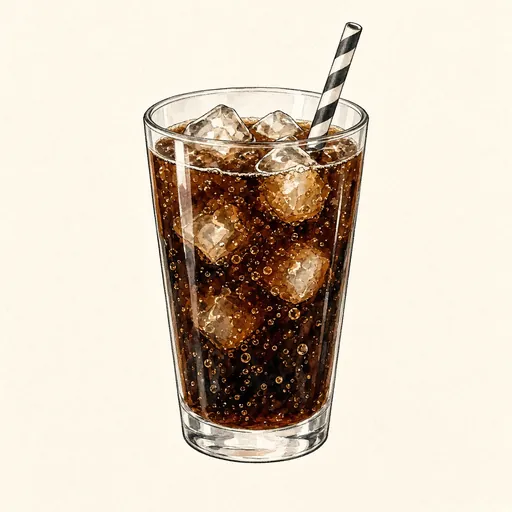
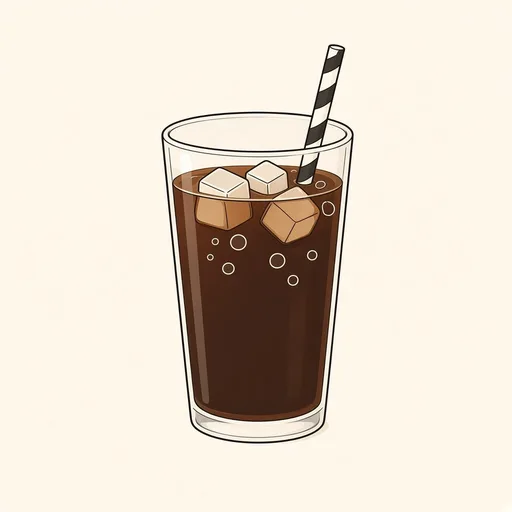
chinese-class-web: milk-tea shop (3002) pictures redrawn — 可乐 啤酒 珍珠 糖 外带 + scene l3-p2 (same filenames); art cache v5

Changed region(s): [[0.2812, 0.0312, 0.7188, 0.9062]]

diff --git a/chinese-class-web/index.html b/chinese-class-web/index.html
@@ -2,19 +2,19 @@
 <html lang="th">
 <head>
 <meta charset="utf-8">
-<script src="sync-config.js?v=044b5b8979" defer></script><script src="sync-merge.js?v=044b5b8979" defer></script><script src="sync-supabase.js?v=044b5b8979" defer></script><script src="sync.js?v=044b5b8979" defer></script>
+<script src="sync-config.js?v=3359cf7e49" defer></script><script src="sync-merge.js?v=3359cf7e49" defer></script><script src="sync-supabase.js?v=3359cf7e49" defer></script><script src="sync.js?v=3359cf7e49" defer></script>
 <meta name="viewport" content="width=device-width, initial-scale=1, maximum-scale=1, user-scalable=no, viewport-fit=cover">
-<script src="nozoom.js?v=044b5b8979"></script>
+<script src="nozoom.js?v=3359cf7e49"></script>
 <meta name="theme-color" content="#FAF7F2">
 <!--brand:start--><title>เหล่าซือลามา — ตัวอย่างทดลอง</title>
 <meta name="description" content="ตัวอย่างทดลองเว็บเรียนภาษาจีนสำหรับคนไทย เหล่าซือลามา เรียนสนุกผ่านเรื่องราว เกม และเพื่อนใน LINE (ยังไม่ใช่ระบบจริง)"><link rel="canonical" href="https://songyisong88.github.io/teepuan-games/chinese-class-web/">
 <meta property="og:type" content="website"><meta property="og:site_name" content="เหล่าซือลามา"><meta property="og:locale" content="th_TH"><meta property="og:title" content="เหล่าซือลามา — ตัวอย่างทดลอง"><meta property="og:description" content="ตัวอย่างทดลองเว็บเรียนภาษาจีนสำหรับคนไทย เหล่าซือลามา เรียนสนุกผ่านเรื่องราว เกม และเพื่อนใน LINE (ยังไม่ใช่ระบบจริง)"><meta property="og:url" content="https://songyisong88.github.io/teepuan-games/chinese-class-web/"><meta property="og:image" content="https://songyisong88.github.io/teepuan-games/chinese-class-web/assets/og.jpg"><meta property="og:image:width" content="1200"><meta property="og:image:height" content="630"><meta property="og:image:alt" content="เหล่าซือลามา — ลามะอาจารย์สอนภาษาจีน">
 <meta name="twitter:card" content="summary_large_image"><meta name="twitter:title" content="เหล่าซือลามา — ตัวอย่างทดลอง"><meta name="twitter:description" content="ตัวอย่างทดลองเว็บเรียนภาษาจีนสำหรับคนไทย เหล่าซือลามา เรียนสนุกผ่านเรื่องราว เกม และเพื่อนใน LINE (ยังไม่ใช่ระบบจริง)"><meta name="twitter:image" content="https://songyisong88.github.io/teepuan-games/chinese-class-web/assets/og.jpg"><!--brand:end-->
 <link rel="icon" type="image/png" href="assets/icons/favicon-64.png"><link rel="apple-touch-icon" href="assets/icons/apple-touch-icon.png"><link rel="manifest" href="manifest.webmanifest">
-<link rel="stylesheet" href="fonts/fonts.css?v=044b5b8979">
-<link rel="stylesheet" href="style.css?v=044b5b8979"><link rel="stylesheet" href="style2.css?v=044b5b8979"><link rel="stylesheet" href="stroke.css?v=044b5b8979"><link rel="stylesheet" href="home.css?v=044b5b8979"><link rel="stylesheet" href="hub.css?v=044b5b8979"><link rel="stylesheet" href="align.css?v=044b5b8979"><link rel="stylesheet" href="nb-save.css?v=044b5b8979"><link rel="stylesheet" href="nb-page.css?v=044b5b8979"><link rel="stylesheet" href="nb-cover.css?v=044b5b8979"><link rel="stylesheet" href="piclearn.css?v=044b5b8979"><link rel="stylesheet" href="pinroom.css?v=044b5b8979"><link rel="stylesheet" href="rad.css?v=044b5b8979"><link rel="stylesheet" href="l1.css?v=044b5b8979">
-<link rel="stylesheet" href="book.css?v=044b5b8979"><link rel="stylesheet" href="fx2.css?v=044b5b8979">
-<link rel="stylesheet" href="nav6.css?v=044b5b8979">
+<link rel="stylesheet" href="fonts/fonts.css?v=3359cf7e49">
+<link rel="stylesheet" href="style.css?v=3359cf7e49"><link rel="stylesheet" href="style2.css?v=3359cf7e49"><link rel="stylesheet" href="stroke.css?v=3359cf7e49"><link rel="stylesheet" href="home.css?v=3359cf7e49"><link rel="stylesheet" href="hub.css?v=3359cf7e49"><link rel="stylesheet" href="align.css?v=3359cf7e49"><link rel="stylesheet" href="nb-save.css?v=3359cf7e49"><link rel="stylesheet" href="nb-page.css?v=3359cf7e49"><link rel="stylesheet" href="nb-cover.css?v=3359cf7e49"><link rel="stylesheet" href="piclearn.css?v=3359cf7e49"><link rel="stylesheet" href="pinroom.css?v=3359cf7e49"><link rel="stylesheet" href="rad.css?v=3359cf7e49"><link rel="stylesheet" href="l1.css?v=3359cf7e49">
+<link rel="stylesheet" href="book.css?v=3359cf7e49"><link rel="stylesheet" href="fx2.css?v=3359cf7e49">
+<link rel="stylesheet" href="nav6.css?v=3359cf7e49">
 </head>
 <body>
 <div id="frame">
@@ -24,10 +24,10 @@
   <div id="toast" role="status"></div>
   <canvas id="fx"></canvas>
 </div>
-<!--ver:start--><script>window.APP_VER="044b5b8979"</script><!--ver:end--><script src="config.js?v=044b5b8979"></script><script>document.title=BRAND_NAME+" — ตัวอย่างทดลอง"</script>
-<script src="data/common.js?v=044b5b8979"></script><script src="data/hsk1.js?v=044b5b8979"></script><script src="data/hsk2.js?v=044b5b8979"></script><script src="data/hsk2x.js?v=044b5b8979"></script><script src="data/hsk3.js?v=044b5b8979"></script><script src="data/hsk4.js?v=044b5b8979"></script><script src="data/hsk5.js?v=044b5b8979"></script><script src="data/place.js?v=044b5b8979"></script><script src="data/labs.js?v=044b5b8979"></script><script src="audio-index.js?v=044b5b8979"></script>
-<script src="data.js?v=044b5b8979"></script><script src="core.js?v=044b5b8979"></script><script src="fx.js?v=044b5b8979"></script><script src="piclearn.js?v=044b5b8979"></script><script src="learn.js?v=044b5b8979"></script><script src="games.js?v=044b5b8979"></script><script src="social.js?v=044b5b8979"></script><script src="extra.js?v=044b5b8979"></script><script src="engage.js?v=044b5b8979"></script><script src="cards.js?v=044b5b8979"></script><script src="onboard.js?v=044b5b8979"></script>
-<script src="levels.js?v=044b5b8979"></script><script src="tutor.js?v=044b5b8979"></script><script src="league.js?v=044b5b8979"></script><script src="badges.js?v=044b5b8979"></script><script src="formats.js?v=044b5b8979"></script><script src="weekly.js?v=044b5b8979"></script><script src="buddy2.js?v=044b5b8979"></script><script src="tonelab.js?v=044b5b8979"></script><script src="labs.js?v=044b5b8979"></script><script src="data/stroke/index.js?v=044b5b8979"></script><script src="stroke.js?v=044b5b8979"></script><script src="assets/art/index.js?v=044b5b8979"></script><script src="data/rad/rad.js?v=044b5b8979"></script><script src="data/rad/pic.js?v=044b5b8979"></script><script src="rad.js?v=044b5b8979"></script><script src="radgame.js?v=044b5b8979"></script><script src="radcol.js?v=044b5b8979"></script><script src="data/pinyin/syllables.js?v=044b5b8979"></script><script src="pinroom.js?v=044b5b8979"></script><script src="backup.js?v=044b5b8979"></script><script src="offline-index.js?v=044b5b8979"></script><script src="offline.js?v=044b5b8979"></script><script src="home.js?v=044b5b8979"></script><script src="know.js?v=044b5b8979"></script><script src="data/hub.js?v=044b5b8979"></script><script src="hub.js?v=044b5b8979"></script><script src="data/align.js?v=044b5b8979"></script><script src="align.js?v=044b5b8979"></script><script src="notebook-data.js?v=044b5b8979"></script><script src="notebook-page.js?v=044b5b8979"></script><script src="nb-cover.js?v=044b5b8979"></script><script src="mw.js?v=044b5b8979"></script><script src="l1.js?v=044b5b8979"></script><script src="data/book1.js?v=044b5b8979"></script><script src="data/book1-tracks.js?v=044b5b8979"></script><script src="data/book1-audio.js?v=044b5b8979"></script><script src="book.js?v=044b5b8979"></script><script src="deeplink.js?v=044b5b8979"></script><script src="fx2.js?v=044b5b8979"></script>
-<script src="nav6.js?v=044b5b8979"></script>
+<!--ver:start--><script>window.APP_VER="3359cf7e49"</script><!--ver:end--><script src="config.js?v=3359cf7e49"></script><script>document.title=BRAND_NAME+" — ตัวอย่างทดลอง"</script>
+<script src="data/common.js?v=3359cf7e49"></script><script src="data/hsk1.js?v=3359cf7e49"></script><script src="data/hsk2.js?v=3359cf7e49"></script><script src="data/hsk2x.js?v=3359cf7e49"></script><script src="data/hsk3.js?v=3359cf7e49"></script><script src="data/hsk4.js?v=3359cf7e49"></script><script src="data/hsk5.js?v=3359cf7e49"></script><script src="data/place.js?v=3359cf7e49"></script><script src="data/labs.js?v=3359cf7e49"></script><script src="audio-index.js?v=3359cf7e49"></script>
+<script src="data.js?v=3359cf7e49"></script><script src="core.js?v=3359cf7e49"></script><script src="fx.js?v=3359cf7e49"></script><script src="piclearn.js?v=3359cf7e49"></script><script src="learn.js?v=3359cf7e49"></script><script src="games.js?v=3359cf7e49"></script><script src="social.js?v=3359cf7e49"></script><script src="extra.js?v=3359cf7e49"></script><script src="engage.js?v=3359cf7e49"></script><script src="cards.js?v=3359cf7e49"></script><script src="onboard.js?v=3359cf7e49"></script>
+<script src="levels.js?v=3359cf7e49"></script><script src="tutor.js?v=3359cf7e49"></script><script src="league.js?v=3359cf7e49"></script><script src="badges.js?v=3359cf7e49"></script><script src="formats.js?v=3359cf7e49"></script><script src="weekly.js?v=3359cf7e49"></script><script src="buddy2.js?v=3359cf7e49"></script><script src="tonelab.js?v=3359cf7e49"></script><script src="labs.js?v=3359cf7e49"></script><script src="data/stroke/index.js?v=3359cf7e49"></script><script src="stroke.js?v=3359cf7e49"></script><script src="assets/art/index.js?v=3359cf7e49"></script><script src="data/rad/rad.js?v=3359cf7e49"></script><script src="data/rad/pic.js?v=3359cf7e49"></script><script src="rad.js?v=3359cf7e49"></script><script src="radgame.js?v=3359cf7e49"></script><script src="radcol.js?v=3359cf7e49"></script><script src="data/pinyin/syllables.js?v=3359cf7e49"></script><script src="pinroom.js?v=3359cf7e49"></script><script src="backup.js?v=3359cf7e49"></script><script src="offline-index.js?v=3359cf7e49"></script><script src="offline.js?v=3359cf7e49"></script><script src="home.js?v=3359cf7e49"></script><script src="know.js?v=3359cf7e49"></script><script src="data/hub.js?v=3359cf7e49"></script><script src="hub.js?v=3359cf7e49"></script><script src="data/align.js?v=3359cf7e49"></script><script src="align.js?v=3359cf7e49"></script><script src="notebook-data.js?v=3359cf7e49"></script><script src="notebook-page.js?v=3359cf7e49"></script><script src="nb-cover.js?v=3359cf7e49"></script><script src="mw.js?v=3359cf7e49"></script><script src="l1.js?v=3359cf7e49"></script><script src="data/book1.js?v=3359cf7e49"></script><script src="data/book1-tracks.js?v=3359cf7e49"></script><script src="data/book1-audio.js?v=3359cf7e49"></script><script src="book.js?v=3359cf7e49"></script><script src="deeplink.js?v=3359cf7e49"></script><script src="fx2.js?v=3359cf7e49"></script>
+<script src="nav6.js?v=3359cf7e49"></script>
 </body>
 </html>

diff --git a/chinese-class-web/sw.js b/chinese-class-web/sw.js
@@ -5,8 +5,8 @@
    • เสียง mp3: แคชตอนเล่น (เก็บล่าสุด RT_MAX ไฟล์) + แพ็กที่ผู้ใช้กดดาวน์โหลด (lama-dl-v1 ไม่ลบเอง) · ตอบ Range เป็น 206 ให้ Safari
    • ข้อมูลลำดับขีด/hanzi-writer/รูป webp/ฟอนต์จีน: แคชเมื่อใช้ (cache-first)
    • activate: ลบแคช shell เวอร์ชันเก่า */
-/*shell*/const V='044b5b8979',SHELL=["index.html","manifest.webmanifest","favicon.ico","sync-config.js?v=044b5b8979","sync-merge.js?v=044b5b8979","sync-supabase.js?v=044b5b8979","sync.js?v=044b5b8979","nozoom.js?v=044b5b8979","fonts/fonts.css?v=044b5b8979","style.css?v=044b5b8979","style2.css?v=044b5b8979","stroke.css?v=044b5b8979","home.css?v=044b5b8979","hub.css?v=044b5b8979","align.css?v=044b5b8979","nb-save.css?v=044b5b8979","nb-page.css?v=044b5b8979","nb-cover.css?v=044b5b8979","piclearn.css?v=044b5b8979","pinroom.css?v=044b5b8979","rad.css?v=044b5b8979","l1.css?v=044b5b8979","book.css?v=044b5b8979","fx2.css?v=044b5b8979","nav6.css?v=044b5b8979","config.js?v=044b5b8979","data/common.js?v=044b5b8979","data/hsk1.js?v=044b5b8979","data/hsk2.js?v=044b5b8979","data/hsk2x.js?v=044b5b8979","data/hsk3.js?v=044b5b8979","data/hsk4.js?v=044b5b8979","data/hsk5.js?v=044b5b8979","data/place.js?v=044b5b8979","data/labs.js?v=044b5b8979","audio-index.js?v=044b5b8979","data.js?v=044b5b8979","core.js?v=044b5b8979","fx.js?v=044b5b8979","piclearn.js?v=044b5b8979","learn.js?v=044b5b8979","games.js?v=044b5b8979","social.js?v=044b5b8979","extra.js?v=044b5b8979","engage.js?v=044b5b8979","cards.js?v=044b5b8979","onboard.js?v=044b5b8979","levels.js?v=044b5b8979","tutor.js?v=044b5b8979","league.js?v=044b5b8979","badges.js?v=044b5b8979","formats.js?v=044b5b8979","weekly.js?v=044b5b8979","buddy2.js?v=044b5b8979","tonelab.js?v=044b5b8979","labs.js?v=044b5b8979","data/stroke/index.js?v=044b5b8979","stroke.js?v=044b5b8979","assets/art/index.js?v=044b5b8979","data/rad/rad.js?v=044b5b8979","data/rad/pic.js?v=044b5b8979","rad.js?v=044b5b8979","radgame.js?v=044b5b8979","radcol.js?v=044b5b8979","data/pinyin/syllables.js?v=044b5b8979","pinroom.js?v=044b5b8979","backup.js?v=044b5b8979","offline-index.js?v=044b5b8979","offline.js?v=044b5b8979","home.js?v=044b5b8979","know.js?v=044b5b8979","data/hub.js?v=044b5b8979","hub.js?v=044b5b8979","data/align.js?v=044b5b8979","align.js?v=044b5b8979","notebook-data.js?v=044b5b8979","notebook-page.js?v=044b5b8979","nb-cover.js?v=044b5b8979","mw.js?v=044b5b8979","l1.js?v=044b5b8979","data/book1.js?v=044b5b8979","data/book1-tracks.js?v=044b5b8979","data/book1-audio.js?v=044b5b8979","book.js?v=044b5b8979","deeplink.js?v=044b5b8979","fx2.js?v=044b5b8979","nav6.js?v=044b5b8979","assets/icons/apple-touch-icon.png","assets/icons/favicon-64.png","assets/icons/icon-192.png","assets/icons/icon-512.png","assets/icons/stk-zi.svg","fonts/UcC73FwrK3iLTeHuS_nVMrMxCp50SjIa0ZL7SUc.woff2","fonts/UcC73FwrK3iLTeHuS_nVMrMxCp50SjIa1ZL7.woff2","fonts/UcC73FwrK3iLTeHuS_nVMrMxCp50SjIa1pL7SUc.woff2","fonts/UcC73FwrK3iLTeHuS_nVMrMxCp50SjIa25L7SUc.woff2","fonts/UcC73FwrK3iLTeHuS_nVMrMxCp50SjIa2JL7SUc.woff2","fonts/UcC73FwrK3iLTeHuS_nVMrMxCp50SjIa2ZL7SUc.woff2","fonts/UcC73FwrK3iLTeHuS_nVMrMxCp50SjIa2pL7SUc.woff2","fonts/m8JMje1VVIzcq1HzJq2AEdo2Tj_qvLqE-vU1Z-JHa74.woff2","fonts/m8JMje1VVIzcq1HzJq2AEdo2Tj_qvLqE-vU1ZOJHa74.woff2","fonts/m8JMje1VVIzcq1HzJq2AEdo2Tj_qvLqE-vU1auJH.woff2","fonts/m8JMje1VVIzcq1HzJq2AEdo2Tj_qvLqE-vU1fuJHa74.woff2","fonts/m8JMje1VVIzcq1HzJq2AEdo2Tj_qvLqE1vI1Z-JHa74.woff2","fonts/m8JMje1VVIzcq1HzJq2AEdo2Tj_qvLqE1vI1ZOJHa74.woff2","fonts/m8JMje1VVIzcq1HzJq2AEdo2Tj_qvLqE1vI1auJH.woff2","fonts/m8JMje1VVIzcq1HzJq2AEdo2Tj_qvLqE1vI1fuJHa74.woff2","fonts/m8JMje1VVIzcq1HzJq2AEdo2Tj_qvLqEsvM1Z-JHa74.woff2","fonts/m8JMje1VVIzcq1HzJq2AEdo2Tj_qvLqEsvM1ZOJHa74.woff2","fonts/m8JMje1VVIzcq1HzJq2AEdo2Tj_qvLqEsvM1auJH.woff2","fonts/m8JMje1VVIzcq1HzJq2AEdo2Tj_qvLqEsvM1fuJHa74.woff2","fonts/m8JPje1VVIzcq1HzJq2AEdo2Tj_qvLqMB9YgVcM.woff2","fonts/m8JPje1VVIzcq1HzJq2AEdo2Tj_qvLqMBNYgVcM.woff2","fonts/m8JPje1VVIzcq1HzJq2AEdo2Tj_qvLqMCdYg.woff2","fonts/m8JPje1VVIzcq1HzJq2AEdo2Tj_qvLqMHdYgVcM.woff2","fonts/sriracha-thai.woff2","assets/mascot/boss.webp","assets/mascot/bow.webp","assets/mascot/brush.webp","assets/mascot/buddy.webp","assets/mascot/celebrate.webp","assets/mascot/cheer.webp","assets/mascot/chest.webp","assets/mascot/correct.webp","assets/mascot/duel.webp","assets/mascot/empty.webp","assets/mascot/gift.webp","assets/mascot/jump.webp","assets/mascot/lantern.webp","assets/mascot/levelup.webp","assets/mascot/listening.webp","assets/mascot/locked.webp","assets/mascot/notfound.webp","assets/mascot/plum.webp","assets/mascot/read.webp","assets/mascot/shock.webp","assets/mascot/sleepy.webp","assets/mascot/speaking.webp","assets/mascot/story.webp","assets/mascot/streak.webp","assets/mascot/streaklost.webp","assets/mascot/student.webp","assets/mascot/tea.webp","assets/mascot/teach.webp","assets/mascot/teacher.webp","assets/mascot/think.webp","assets/mascot/thumbs.webp","assets/mascot/timer.webp","assets/mascot/tired.webp","assets/mascot/travel.webp","assets/mascot/trophy.webp","assets/mascot/wave.webp","assets/mascot/write.webp","assets/mascot/wrong.webp","assets/friends/s01.webp","assets/friends/s03.webp","assets/friends/s04.webp","assets/friends/s05.webp","assets/friends/s06.webp","assets/friends/s07.webp","vendor/hanzi-writer.min.js"];
-const SH='lama-shell-'+V,STK='lama-stk-v1',ART='lama-art-v4',FONT='lama-font-v1',RT='lama-audio-rt-v1',DL='lama-dl-v1',RT_MAX=400;
+/*shell*/const V='3359cf7e49',SHELL=["index.html","manifest.webmanifest","favicon.ico","sync-config.js?v=3359cf7e49","sync-merge.js?v=3359cf7e49","sync-supabase.js?v=3359cf7e49","sync.js?v=3359cf7e49","nozoom.js?v=3359cf7e49","fonts/fonts.css?v=3359cf7e49","style.css?v=3359cf7e49","style2.css?v=3359cf7e49","stroke.css?v=3359cf7e49","home.css?v=3359cf7e49","hub.css?v=3359cf7e49","align.css?v=3359cf7e49","nb-save.css?v=3359cf7e49","nb-page.css?v=3359cf7e49","nb-cover.css?v=3359cf7e49","piclearn.css?v=3359cf7e49","pinroom.css?v=3359cf7e49","rad.css?v=3359cf7e49","l1.css?v=3359cf7e49","book.css?v=3359cf7e49","fx2.css?v=3359cf7e49","nav6.css?v=3359cf7e49","config.js?v=3359cf7e49","data/common.js?v=3359cf7e49","data/hsk1.js?v=3359cf7e49","data/hsk2.js?v=3359cf7e49","data/hsk2x.js?v=3359cf7e49","data/hsk3.js?v=3359cf7e49","data/hsk4.js?v=3359cf7e49","data/hsk5.js?v=3359cf7e49","data/place.js?v=3359cf7e49","data/labs.js?v=3359cf7e49","audio-index.js?v=3359cf7e49","data.js?v=3359cf7e49","core.js?v=3359cf7e49","fx.js?v=3359cf7e49","piclearn.js?v=3359cf7e49","learn.js?v=3359cf7e49","games.js?v=3359cf7e49","social.js?v=3359cf7e49","extra.js?v=3359cf7e49","engage.js?v=3359cf7e49","cards.js?v=3359cf7e49","onboard.js?v=3359cf7e49","levels.js?v=3359cf7e49","tutor.js?v=3359cf7e49","league.js?v=3359cf7e49","badges.js?v=3359cf7e49","formats.js?v=3359cf7e49","weekly.js?v=3359cf7e49","buddy2.js?v=3359cf7e49","tonelab.js?v=3359cf7e49","labs.js?v=3359cf7e49","data/stroke/index.js?v=3359cf7e49","stroke.js?v=3359cf7e49","assets/art/index.js?v=3359cf7e49","data/rad/rad.js?v=3359cf7e49","data/rad/pic.js?v=3359cf7e49","rad.js?v=3359cf7e49","radgame.js?v=3359cf7e49","radcol.js?v=3359cf7e49","data/pinyin/syllables.js?v=3359cf7e49","pinroom.js?v=3359cf7e49","backup.js?v=3359cf7e49","offline-index.js?v=3359cf7e49","offline.js?v=3359cf7e49","home.js?v=3359cf7e49","know.js?v=3359cf7e49","data/hub.js?v=3359cf7e49","hub.js?v=3359cf7e49","data/align.js?v=3359cf7e49","align.js?v=3359cf7e49","notebook-data.js?v=3359cf7e49","notebook-page.js?v=3359cf7e49","nb-cover.js?v=3359cf7e49","mw.js?v=3359cf7e49","l1.js?v=3359cf7e49","data/book1.js?v=3359cf7e49","data/book1-tracks.js?v=3359cf7e49","data/book1-audio.js?v=3359cf7e49","book.js?v=3359cf7e49","deeplink.js?v=3359cf7e49","fx2.js?v=3359cf7e49","nav6.js?v=3359cf7e49","assets/icons/apple-touch-icon.png","assets/icons/favicon-64.png","assets/icons/icon-192.png","assets/icons/icon-512.png","assets/icons/stk-zi.svg","fonts/UcC73FwrK3iLTeHuS_nVMrMxCp50SjIa0ZL7SUc.woff2","fonts/UcC73FwrK3iLTeHuS_nVMrMxCp50SjIa1ZL7.woff2","fonts/UcC73FwrK3iLTeHuS_nVMrMxCp50SjIa1pL7SUc.woff2","fonts/UcC73FwrK3iLTeHuS_nVMrMxCp50SjIa25L7SUc.woff2","fonts/UcC73FwrK3iLTeHuS_nVMrMxCp50SjIa2JL7SUc.woff2","fonts/UcC73FwrK3iLTeHuS_nVMrMxCp50SjIa2ZL7SUc.woff2","fonts/UcC73FwrK3iLTeHuS_nVMrMxCp50SjIa2pL7SUc.woff2","fonts/m8JMje1VVIzcq1HzJq2AEdo2Tj_qvLqE-vU1Z-JHa74.woff2","fonts/m8JMje1VVIzcq1HzJq2AEdo2Tj_qvLqE-vU1ZOJHa74.woff2","fonts/m8JMje1VVIzcq1HzJq2AEdo2Tj_qvLqE-vU1auJH.woff2","fonts/m8JMje1VVIzcq1HzJq2AEdo2Tj_qvLqE-vU1fuJHa74.woff2","fonts/m8JMje1VVIzcq1HzJq2AEdo2Tj_qvLqE1vI1Z-JHa74.woff2","fonts/m8JMje1VVIzcq1HzJq2AEdo2Tj_qvLqE1vI1ZOJHa74.woff2","fonts/m8JMje1VVIzcq1HzJq2AEdo2Tj_qvLqE1vI1auJH.woff2","fonts/m8JMje1VVIzcq1HzJq2AEdo2Tj_qvLqE1vI1fuJHa74.woff2","fonts/m8JMje1VVIzcq1HzJq2AEdo2Tj_qvLqEsvM1Z-JHa74.woff2","fonts/m8JMje1VVIzcq1HzJq2AEdo2Tj_qvLqEsvM1ZOJHa74.woff2","fonts/m8JMje1VVIzcq1HzJq2AEdo2Tj_qvLqEsvM1auJH.woff2","fonts/m8JMje1VVIzcq1HzJq2AEdo2Tj_qvLqEsvM1fuJHa74.woff2","fonts/m8JPje1VVIzcq1HzJq2AEdo2Tj_qvLqMB9YgVcM.woff2","fonts/m8JPje1VVIzcq1HzJq2AEdo2Tj_qvLqMBNYgVcM.woff2","fonts/m8JPje1VVIzcq1HzJq2AEdo2Tj_qvLqMCdYg.woff2","fonts/m8JPje1VVIzcq1HzJq2AEdo2Tj_qvLqMHdYgVcM.woff2","fonts/sriracha-thai.woff2","assets/mascot/boss.webp","assets/mascot/bow.webp","assets/mascot/brush.webp","assets/mascot/buddy.webp","assets/mascot/celebrate.webp","assets/mascot/cheer.webp","assets/mascot/chest.webp","assets/mascot/correct.webp","assets/mascot/duel.webp","assets/mascot/empty.webp","assets/mascot/gift.webp","assets/mascot/jump.webp","assets/mascot/lantern.webp","assets/mascot/levelup.webp","assets/mascot/listening.webp","assets/mascot/locked.webp","assets/mascot/notfound.webp","assets/mascot/plum.webp","assets/mascot/read.webp","assets/mascot/shock.webp","assets/mascot/sleepy.webp","assets/mascot/speaking.webp","assets/mascot/story.webp","assets/mascot/streak.webp","assets/mascot/streaklost.webp","assets/mascot/student.webp","assets/mascot/tea.webp","assets/mascot/teach.webp","assets/mascot/teacher.webp","assets/mascot/think.webp","assets/mascot/thumbs.webp","assets/mascot/timer.webp","assets/mascot/tired.webp","assets/mascot/travel.webp","assets/mascot/trophy.webp","assets/mascot/wave.webp","assets/mascot/write.webp","assets/mascot/wrong.webp","assets/friends/s01.webp","assets/friends/s03.webp","assets/friends/s04.webp","assets/friends/s05.webp","assets/friends/s06.webp","assets/friends/s07.webp","vendor/hanzi-writer.min.js"];
+const SH='lama-shell-'+V,STK='lama-stk-v1',ART='lama-art-v5',FONT='lama-font-v1',RT='lama-audio-rt-v1',DL='lama-dl-v1',RT_MAX=400;
 self.addEventListener('install',e=>{e.waitUntil(caches.open(SH).then(c=>c.addAll(SHELL.map(u=>new Request(u,{cache:'reload'})))).then(()=>self.skipWaiting()))});
 self.addEventListener('activate',e=>{e.waitUntil(caches.keys().then(ks=>Promise.all(ks.filter(k=>(k.startsWith('lama-shell-')&&k!==SH)||(k.startsWith('lama-stk-')&&k!==STK)||(k.startsWith('lama-art-')&&k!==ART)).map(k=>caches.delete(k)))).then(()=>self.clients.claim()))});
 const inDL=r=>caches.open(DL).then(c=>c.match(r,{ignoreSearch:true}));

diff --git a/chinese-class-web/assets/art/index.js b/chinese-class-web/assets/art/index.js
@@ -61,3 +61,5 @@ Object.assign(ART_IDX,{"hubw/冬阴功汤": 1, "hubw/泰式炒河粉": 1, "hubw/
 /* HUB-WORD · ภาพคำในห้องคำวัยรุ่นจีนฮิตโซเชียล (50 ภาพ, assets/art/hubw/teen01-50) และภาพปก hub/teen */
 Object.assign(ART_IDX,{"hubw/绝了": "teen01", "hubw/封神": "teen02", "hubw/杀疯了": "teen03", "hubw/硬控": "teen04", "hubw/飒": "teen05", "hubw/大女主": "teen06", "hubw/古希腊掌管拍照的神": "teen07", "hubw/出片": "teen08", "hubw/city不city": "teen09", "hubw/活人感": "teen10", "hubw/狠狠爱了": "teen11", "hubw/显眼包": "teen12", "hubw/天塌了": "teen13", "hubw/红温": "teen14", "hubw/绷不住了": "teen15", "hubw/那咋了": "teen16", "hubw/如何呢又能怎": "teen17", "hubw/偷感很重": "teen18", "hubw/下头": "teen19", "hubw/恋爱脑": "teen20", "hubw/被鸽了": "teen21", "hubw/塌房": "teen22", "hubw/情绪价值": "teen23", "hubw/搭子": "teen24", "hubw/宝子": "teen25", "hubw/爱你老己": "teen26", "hubw/冲": "teen27", "hubw/闭眼入": "teen28", "hubw/薅羊毛": "teen29", "hubw/工资基础，消费不基础": "teen30", "hubw/谷子": "teen31", "hubw/穷鬼套餐": "teen32", "hubw/玄学": "teen33", "hubw/水逆": "teen34", "hubw/接好运": "teen35", "hubw/来财": "teen36", "hubw/电子榨菜": "teen37", "hubw/村咖": "teen38", "hubw/特种兵式旅游": "teen39", "hubw/敬自己一杯": "teen40", "hubw/班味": "teen41", "hubw/牛马": "teen42", "hubw/邪修": "teen43", "hubw/助我破鼎": "teen44", "hubw/包的": "teen45", "hubw/搞抽象": "teen46", "hubw/城巴佬": "teen47", "hubw/你的胆子真是肥嘟嘟的": "teen48", "hubw/谁懂啊": "teen49", "hubw/i人 / e人": "teen50"});
 Object.assign(ART_IDX,{"hub/teen": 1});
+
+/* ร้านชานม (บท 3002) วาดใหม่ 31 ต.ค. 2026: word/可乐 啤酒 珍珠 糖 外带 + scene/l3-p2 — ชื่อไฟล์เดิม ใช้แคชภาพ lama-art-v5 ใน sw.js */

diff --git a/chinese-class-web/line.html b/chinese-class-web/line.html
@@ -3,7 +3,7 @@
 <head>
 <meta charset="utf-8">
 <meta name="viewport" content="width=device-width, initial-scale=1, maximum-scale=1, user-scalable=no, viewport-fit=cover">
-<script src="nozoom.js?v=044b5b8979"></script>
+<script src="nozoom.js?v=3359cf7e49"></script>
 <!--brand:start--><title>ทางเข้าจาก LINE OA — เหล่าซือลามา</title>
 <meta name="description" content="หน้าจำลองการเข้าห้องเรียนจาก LINE OA ของ เหล่าซือลามา (ตัวอย่างทดลอง ยังไม่ได้เชื่อมกับ LINE จริง)"><link rel="canonical" href="https://songyisong88.github.io/teepuan-games/chinese-class-web/line.html">
 <meta property="og:type" content="website"><meta property="og:site_name" content="เหล่าซือลามา"><meta property="og:locale" content="th_TH"><meta property="og:title" content="ทางเข้าจาก LINE OA — เหล่าซือลามา"><meta property="og:description" content="หน้าจำลองการเข้าห้องเรียนจาก LINE OA ของ เหล่าซือลามา (ตัวอย่างทดลอง ยังไม่ได้เชื่อมกับ LINE จริง)"><meta property="og:url" content="https://songyisong88.github.io/teepuan-games/chinese-class-web/line.html"><meta property="og:image" content="https://songyisong88.github.io/teepuan-games/chinese-class-web/assets/og.jpg"><meta property="og:image:width" content="1200"><meta property="og:image:height" content="630"><meta property="og:image:alt" content="เหล่าซือลามา — ลามะอาจารย์สอนภาษาจีน">
